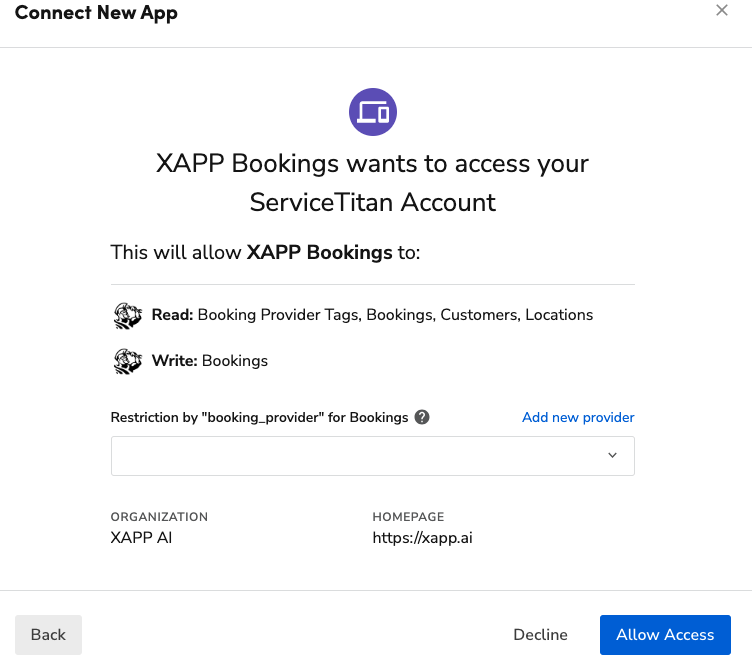
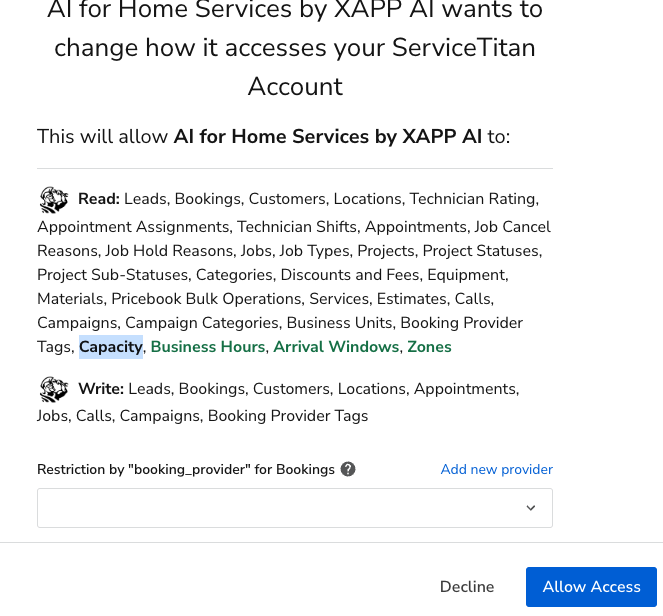
Added/Updated documentation for Service Titan, Jobber, Housecall Pro

diff --git a/sidebars-help.js b/sidebars-help.js
@@ -39,6 +39,7 @@ const sidebars = {
         "integrations",
         "integrations/integration-jobber",
         "integrations/integration-service-titan",
+        "integrations/integration-housecall-pro",
         "integrations/integration-lacrm",
       ],
     },

diff --git a/docusaurus.config.js b/docusaurus.config.js
@@ -87,7 +87,7 @@ module.exports = {
           title: "XAPP AI",
           items: [
             {
-              label: "//xapp.ai",
+              label: "xapp.ai",
               to: "https://xapp.ai/",
             },
             {

diff --git a/help/integrations/integration-housecall-pro.md b/help/integrations/integration-housecall-pro.md
@@ -1,0 +1,126 @@
+---
+title: Housecall Pro
+sidebar_label: Housecall Pro
+---
+
+:::important
+
+- 3rd party integrations are available on all paid tiers, it is not available on Starter.
+- You must be on Housecall Pro's [MAX plan](https://www.housecallpro.com/pricing/) to integrate leads, and scheduling requests
+
+:::
+
+You can connect your existing Housecall Pro account with AI Chat, AI Scheduling, and Google Business Messages.
+
+- Send user requests to your Housecall Pro account
+- Collect contact information, and scheduling requests
+- Naturally transition the conversation to a lead flow
+- Receive the full transcript of the conversation
+- Get notified when users are talking to you, and speak directly
+
+---
+
+### Connect your Housecall Pro account to XAPP AI
+
+Allow XAPP AI access to your Housecall Pro instance, we'll manage customer requests, locations, scheduling, and notes on your account.  
+
+#### 1. Navigate to the App Store (top right on your Housecall Pro account)
+
+<div style={{width: '40%'}}>
+
+![Store](../../static/img/integrations/housecall-pro/app-store.png)
+
+</div>
+
+#### 2. Select the API app from your Housecall Pro Max plan
+
+<div style={{width: '70%'}}>
+
+![App](../../static/img/integrations/housecall-pro/api-app.png)
+
+</div>
+
+#### 3. Generate a new API Key and grant full access
+
+<div style={{width: '80%'}}>
+
+![Create Key](../../static/img/integrations/housecall-pro/api-screen.png)
+
+</div>
+
+#### 4. Generate a new API Key and grant full access 
+
+<div style={{display: '30%'}}>
+
+![Create Key](../../static/img/integrations/housecall-pro/api-key.png)
+
+</div>
+
+#### 5. Copy & Share your API Key
+
+<div style={{display: '20%'}}>
+
+![Share Key](../../static/img/integrations/housecall-pro/share-key.png)
+
+</div>
+
+<hr/>
+
+### Chat & Google Business Messages
+  *Detect that the user wants to connect with the business*
+
+<div className="centered-image-container">
+<img src="/img/integrations/lacrm/contact-us.png" alt="Contact Us"/>
+</div>
+
+
+
+<div className="centered-image-container">
+<img src="/img/integrations/lacrm/help-with.png" alt="Help With"/>
+</div>
+
+We provide helpful suggestion chips users can click to initiate a lead flow. This can be a simple 'Contact Us' button like above.
+
+Also provided are pre-built language models to determine a user's desire to connect with the business. When this happens, the user is put into a lead flow. In the image above, our auto-complete suggestions for a home services company lets the user discover the phrases they can use.
+
+
+### Lead information sent to your Housecall Pro account
+
+When a lead is captured during a chat or Google Business Messages session, XAPP AI sends the following information:
+
+- Customer - View all the collected information from a Chat, or Google Business Messages session. The transcript will be attached as a note.
+
+<div style={{width: '60%'}}>
+
+![Requests](../../static/img/integrations/housecall-pro/Customer.png)
+
+![Details](../../static/img/integrations/housecall-pro/Notes.png)
+
+
+</div>
+
+### Scheduling Information sent to your Housecall Pro account
+
+Our AI Scheduler will collect more than just lead information.  Send jobs directly to your account with helpful AI powered summaries based on the user's description of the issue.  Use this information to prioritize the highest ticket scheduling requests first.  
+
+<div style={{width: '40%'}}>
+
+
+#### Scheduling user requests in 3 steps!
+
+
+1. Collect Contact info![Step 1](../../static/img/integrations/housecall-pro/contact.png)
+
+2. Describe your issue ![Step 2](../../static/img/integrations/housecall-pro/description.png)
+
+3. Select your preferred day ![Step 3](../../static/img/integrations/housecall-pro/time.png)
+
+4. Done! ![Schedule](../../static/img/integrations/housecall-pro/Schedule.png)
+        ![Details](../../static/img/integrations/housecall-pro/Scheduling-Notes.png)
+
+
+
+</div>
+
+- [Wordpress Plugin Installs Chat, Search & Scheduling](/help/install/wordpress)
+- [Install Manually](/help/install/javascript)

diff --git a/help/integrations/integration-service-titan.md b/help/integrations/integration-service-titan.md
@@ -11,7 +11,7 @@ sidebar_label: Service Titan
 
 You can connect your existing Service Titan account with AI Powered Chat, and Google Business Messages.
 
-- Send bookings to your Service Titan account
+- Send bookings & jobs to your Service Titan account
 - Collect name and contact information
 - Naturally transition the conversation to a lead flow
 - Receive the full transcript of the conversation
@@ -38,7 +38,8 @@ You can connect your existing Service Titan account with AI Powered Chat, and Go
 
 ### Step 2
 
-#### Connect to XAPP Bookings
+#### Connect to XAPP AI
+**Warning:** *XAPP must add your Tenant ID before you can complete this step.  You will receive a notification when you can complete step 2*
 
 - From the same page on your Service Titan account, click the **Connect New App** button app
 
@@ -46,10 +47,10 @@ You can connect your existing Service Titan account with AI Powered Chat, and Go
 <img src="/img/integrations/service-titan/connect-new-app.png" alt="ServiceTitan Connect New App"/>
 </div>
 
-- Select the app, choose 'XAPP Bookings'
+- Select the app, choose **AI for Home Services by XAPP AI**
 
 <div className="centered-image-container">
-<img src="/img/integrations/service-titan/xapp-bookings.png" alt="ServiceTitan XAPP Bookings"/>
+<img src="/img/integrations/service-titan/ai-for-home-services.png" alt="ServiceTitan XAPP App"/>
 </div>
 
 - Allow Access to connect your account
@@ -58,7 +59,9 @@ You can connect your existing Service Titan account with AI Powered Chat, and Go
 <img src="/img/integrations/service-titan/allow-access.png" alt="ServiceTitan Allow Access"/>
 </div>
 
-#### Make sure you add a Booking provider
+### Step 3
+
+#### Add a Booking provider
 
 - Adding a provider will allow you to see where your booking are coming from
 - If you haven't done this, add it by clicking 'Add new provider' and repeating Step 2 when you've add it. Your new booking provider will show in the drop-down when selecting. \_ make note of the ID associated with the booking, you'll need it later
@@ -69,24 +72,16 @@ You can connect your existing Service Titan account with AI Powered Chat, and Go
 
 <div className="centered-image-container">
 <img src="/img/integrations/service-titan/booking-id.png" alt="ServiceTitan Booking ID"/>
+
 </div>
 
-### Step 3
+<hr/>
 
-#### Share your Client ID and Client Secret
-
-- After successfully connecting your account, Service Titan will provide a **ClientID** and **Client Secret**
-- Make sure you generate the Client Secret and copy it to share later
-
-<div className="centered-image-container">
-<img src="/img/integrations/service-titan/client-and-secret.png" alt="ServiceTitan Client Secret"/>
-</div>
-
-# Scheduling Widget
+# AI Scheduling
 
 :::important
 
-Scheduling Widget is only available on the XAPP AI Scheduling plan.
+Scheduling is only available on the XAPP AI Scheduling plan.
 
 :::
 
@@ -94,7 +89,27 @@ Scheduling Widget is only available on the XAPP AI Scheduling plan.
 
 We will ask for the contact information of the user and then ask them to describe the issue they have. We will then leverage AI to appropriately match what the potential customer as requested to the correct job type within ServiceTitan.
 
-# View Bookings on your account
+
+<div style={{width: '40%'}}>
+
+#### Scheduling user requests in 3 steps!
+
+
+1. Collect Contact info![Step 1](../../static/img/integrations/housecall-pro/contact.png)
+
+2. Describe your issue ![Step 2](../../static/img/integrations/service-titan/st-description.png)
+
+3. Select your preferred day ![Step 3](../../static/img/integrations/housecall-pro/time.png)
+
+4.  Done! 
+  
+  <div style={{width: '160%'}}>
+   ![Schedule](../../static/img/integrations/service-titan/st-job.png)
+  </div>
+
+</div>
+
+# View Bookings as Leads on your account
 
 - To Trigger a lead, type **Contact Us** in your Chat or Google Business Message app. You'll be prompted for your contact information.
 - In your Service Titan account, leads will be sent to **Calls->Booking** in your account

diff --git a/help/integrations/integration-jobber.md b/help/integrations/integration-jobber.md
@@ -13,6 +13,7 @@ You can connect your existing Jobber account with AI Powered Chat, and Google Bu
 
 - Send user requests to your Jobber account
 - Collect name and contact information
+- Schedule jobs
 - Naturally transition the conversation to a lead flow
 - Receive the full transcript of the conversation
 - Get notified when users are talking to you, and speak directly
@@ -47,9 +48,7 @@ Also provided are pre-built language models to determine a user's desire to conn
 
 Helpful components to collect the address and date are available to improve the user experience.
 
-<div className="centered-image-container">
-<img src="/img/integrations/jobber/scheduling.png" alt="Scheduling"/>
-</div>
+
 
 ### Lead information sent to your Jobber account
 
@@ -69,6 +68,34 @@ When a lead is captured during a chat or Google Business Messages session, XAPP 
 
 </div>
 
+### Scheduling Information sent to your Jobber Account
+
+Our AI Scheduler will collect more than just lead information.  Send jobs directly to your account with helpful AI powered summaries of the type of job.  Use this information to prioritize the highest ticket scheduling requests first.  
+
+<div style={{width: '80%'}}>
+![Schedule](../../static/img/integrations/jobber/automated-label.png)
+
+*Quickly prioritize the highest ticket jobs, automatically labeled with your existing products and services*
+
+<hr/>
+</div>
+
+<div style={{width: '40%'}}>
+
+#### Scheduling user requests in 3 steps!
+
+
+1. Collect Contact info![Step 1](../../static/img/integrations/housecall-pro/contact.png)
+
+2. Describe your issue ![Step 2](../../static/img/integrations/housecall-pro/description.png)
+
+3. Select your preferred day ![Step 3](../../static/img/integrations/housecall-pro/time.png)
+
+4.  Done! ![Schedule](../../static/img/integrations/jobber/created-job.png)
+
+
+
+</div>
 ### Install Chat (and Search) onto your website
 
 - [Wordpress Plugin Installs Chat & Search](/help/install/wordpress)

diff --git a/help/integrations.md b/help/integrations.md
@@ -15,10 +15,5 @@ Our integrations are a key component of our offering and help your AI fit seemle
 
 - [Jobber](https://getjobber.com/) - [Read More](/help/integrations/integration-jobber)
 - [ServiceTitan](https://www.servicetitan.com/) - [Read More](/help/integrations/integration-service-titan)
+- [Housecall Pro](ttps://www.housecallpro.com) - [Read More](/help/integrations/integration-housecall-pro)
 - [Less Annoying CRM](https://www.lessannoyingcrm.com/) - [Read More](/help/integrations/integration-lacrm)
-
-## Coming Soon - In Beta
-
-The following are available at request while in beta:
-
-- [HouseCall Pro](https://www.housecallpro.com/)
